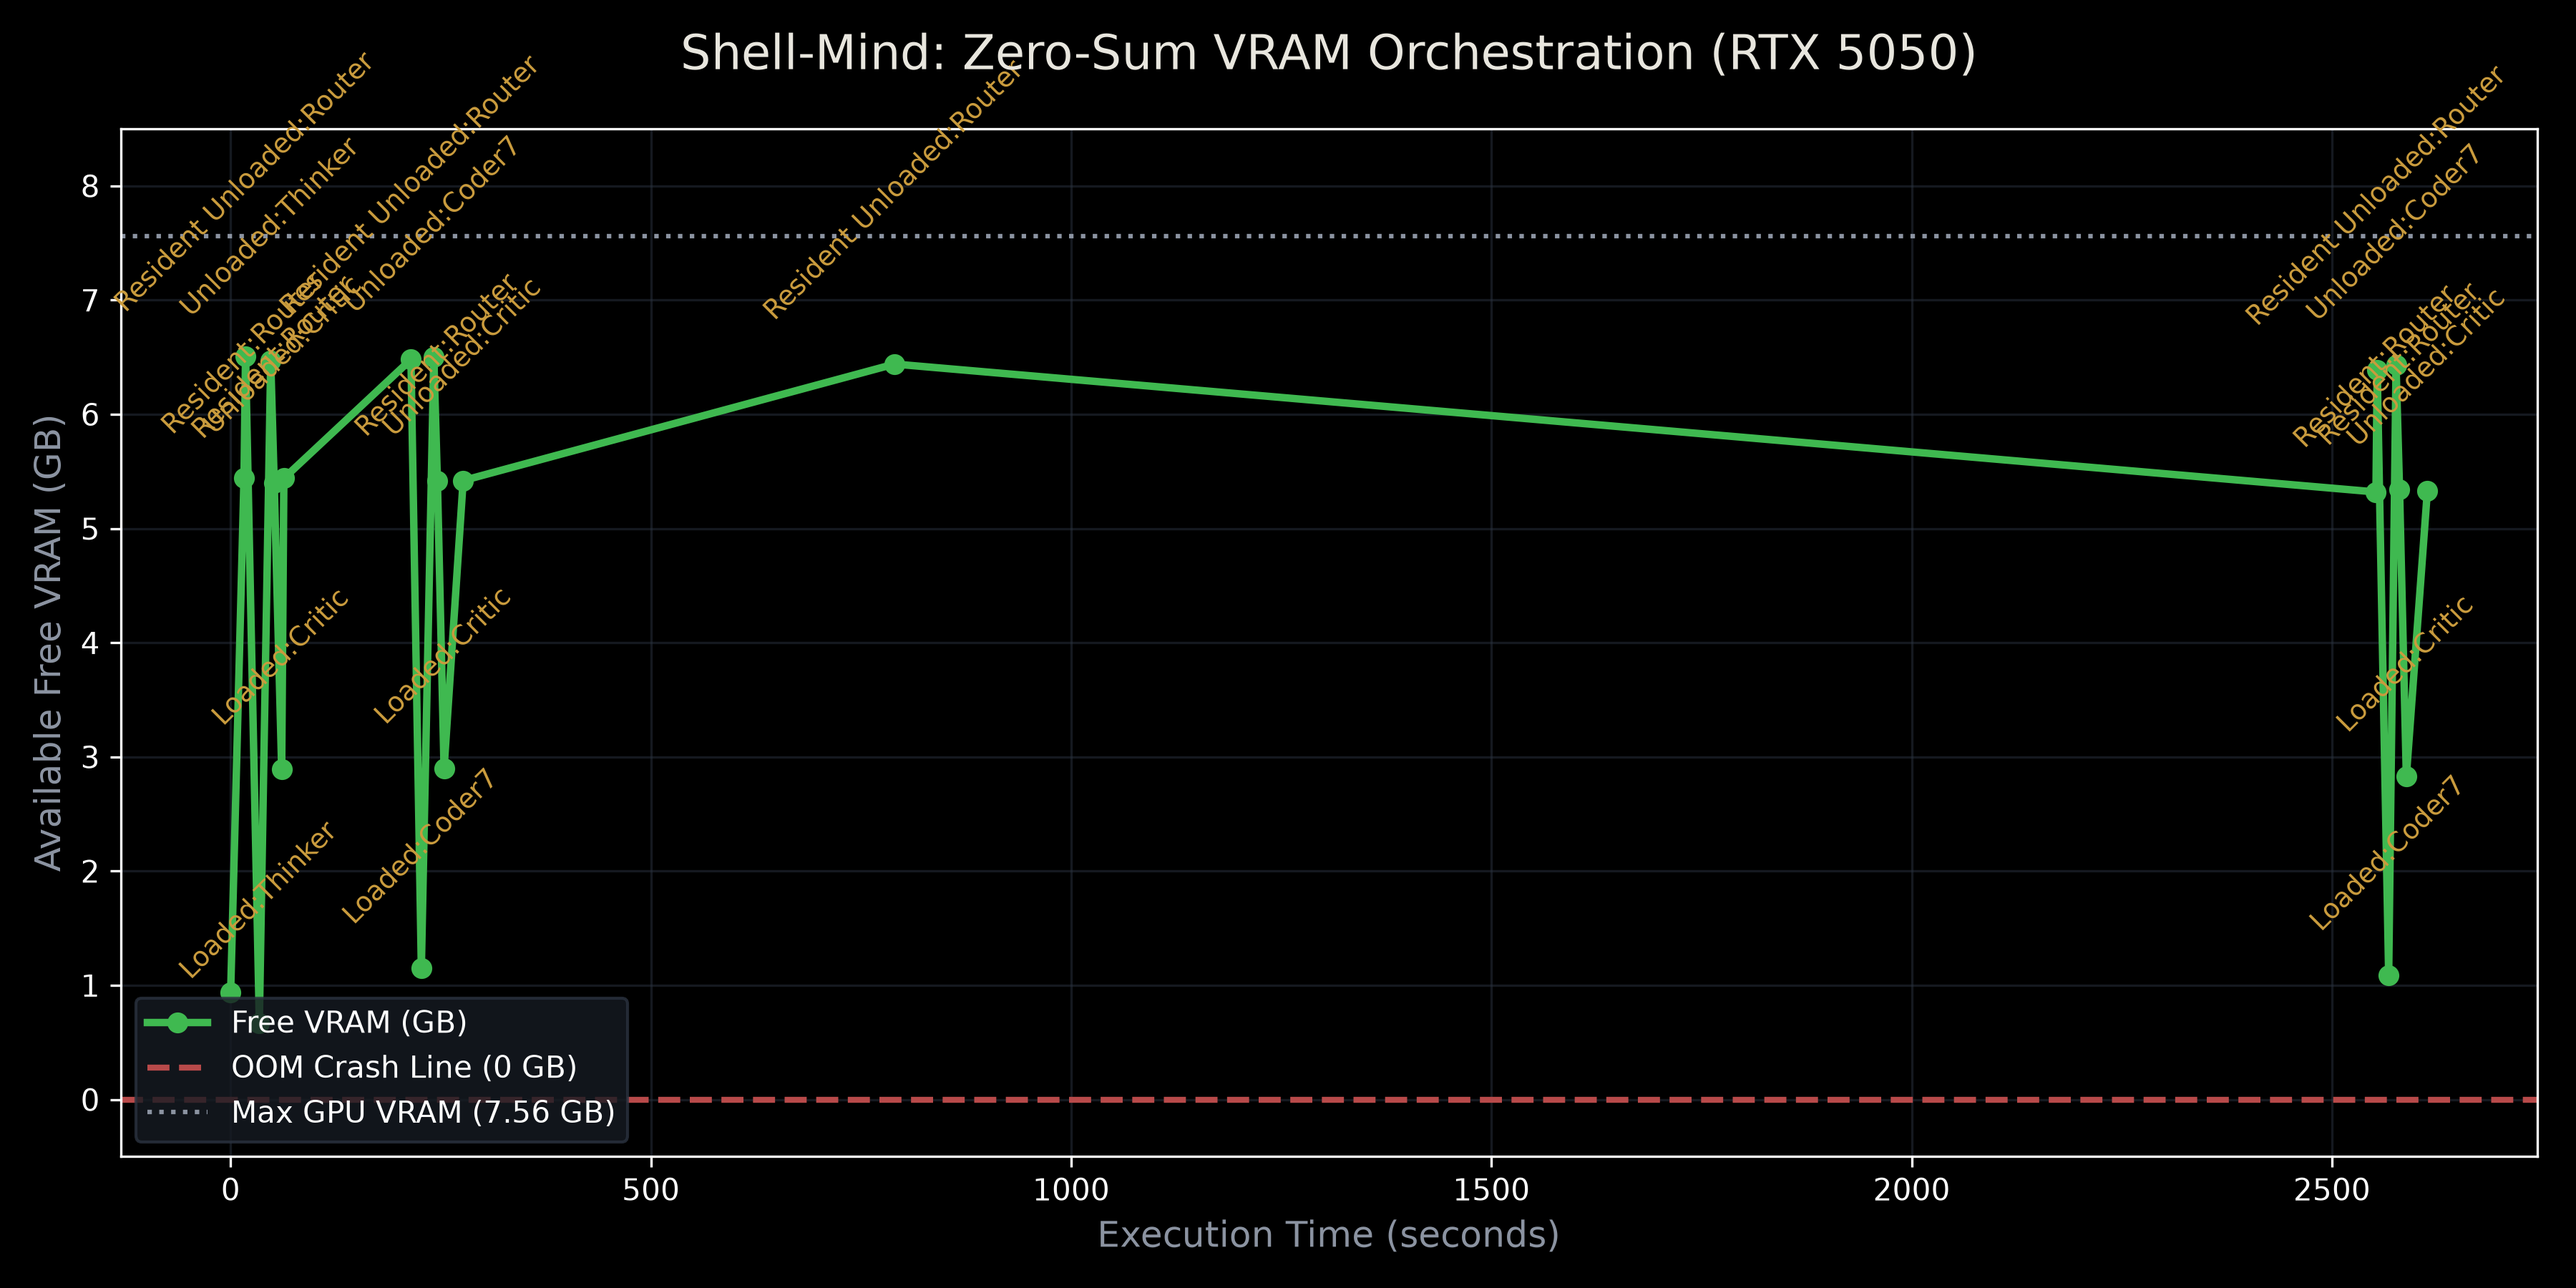
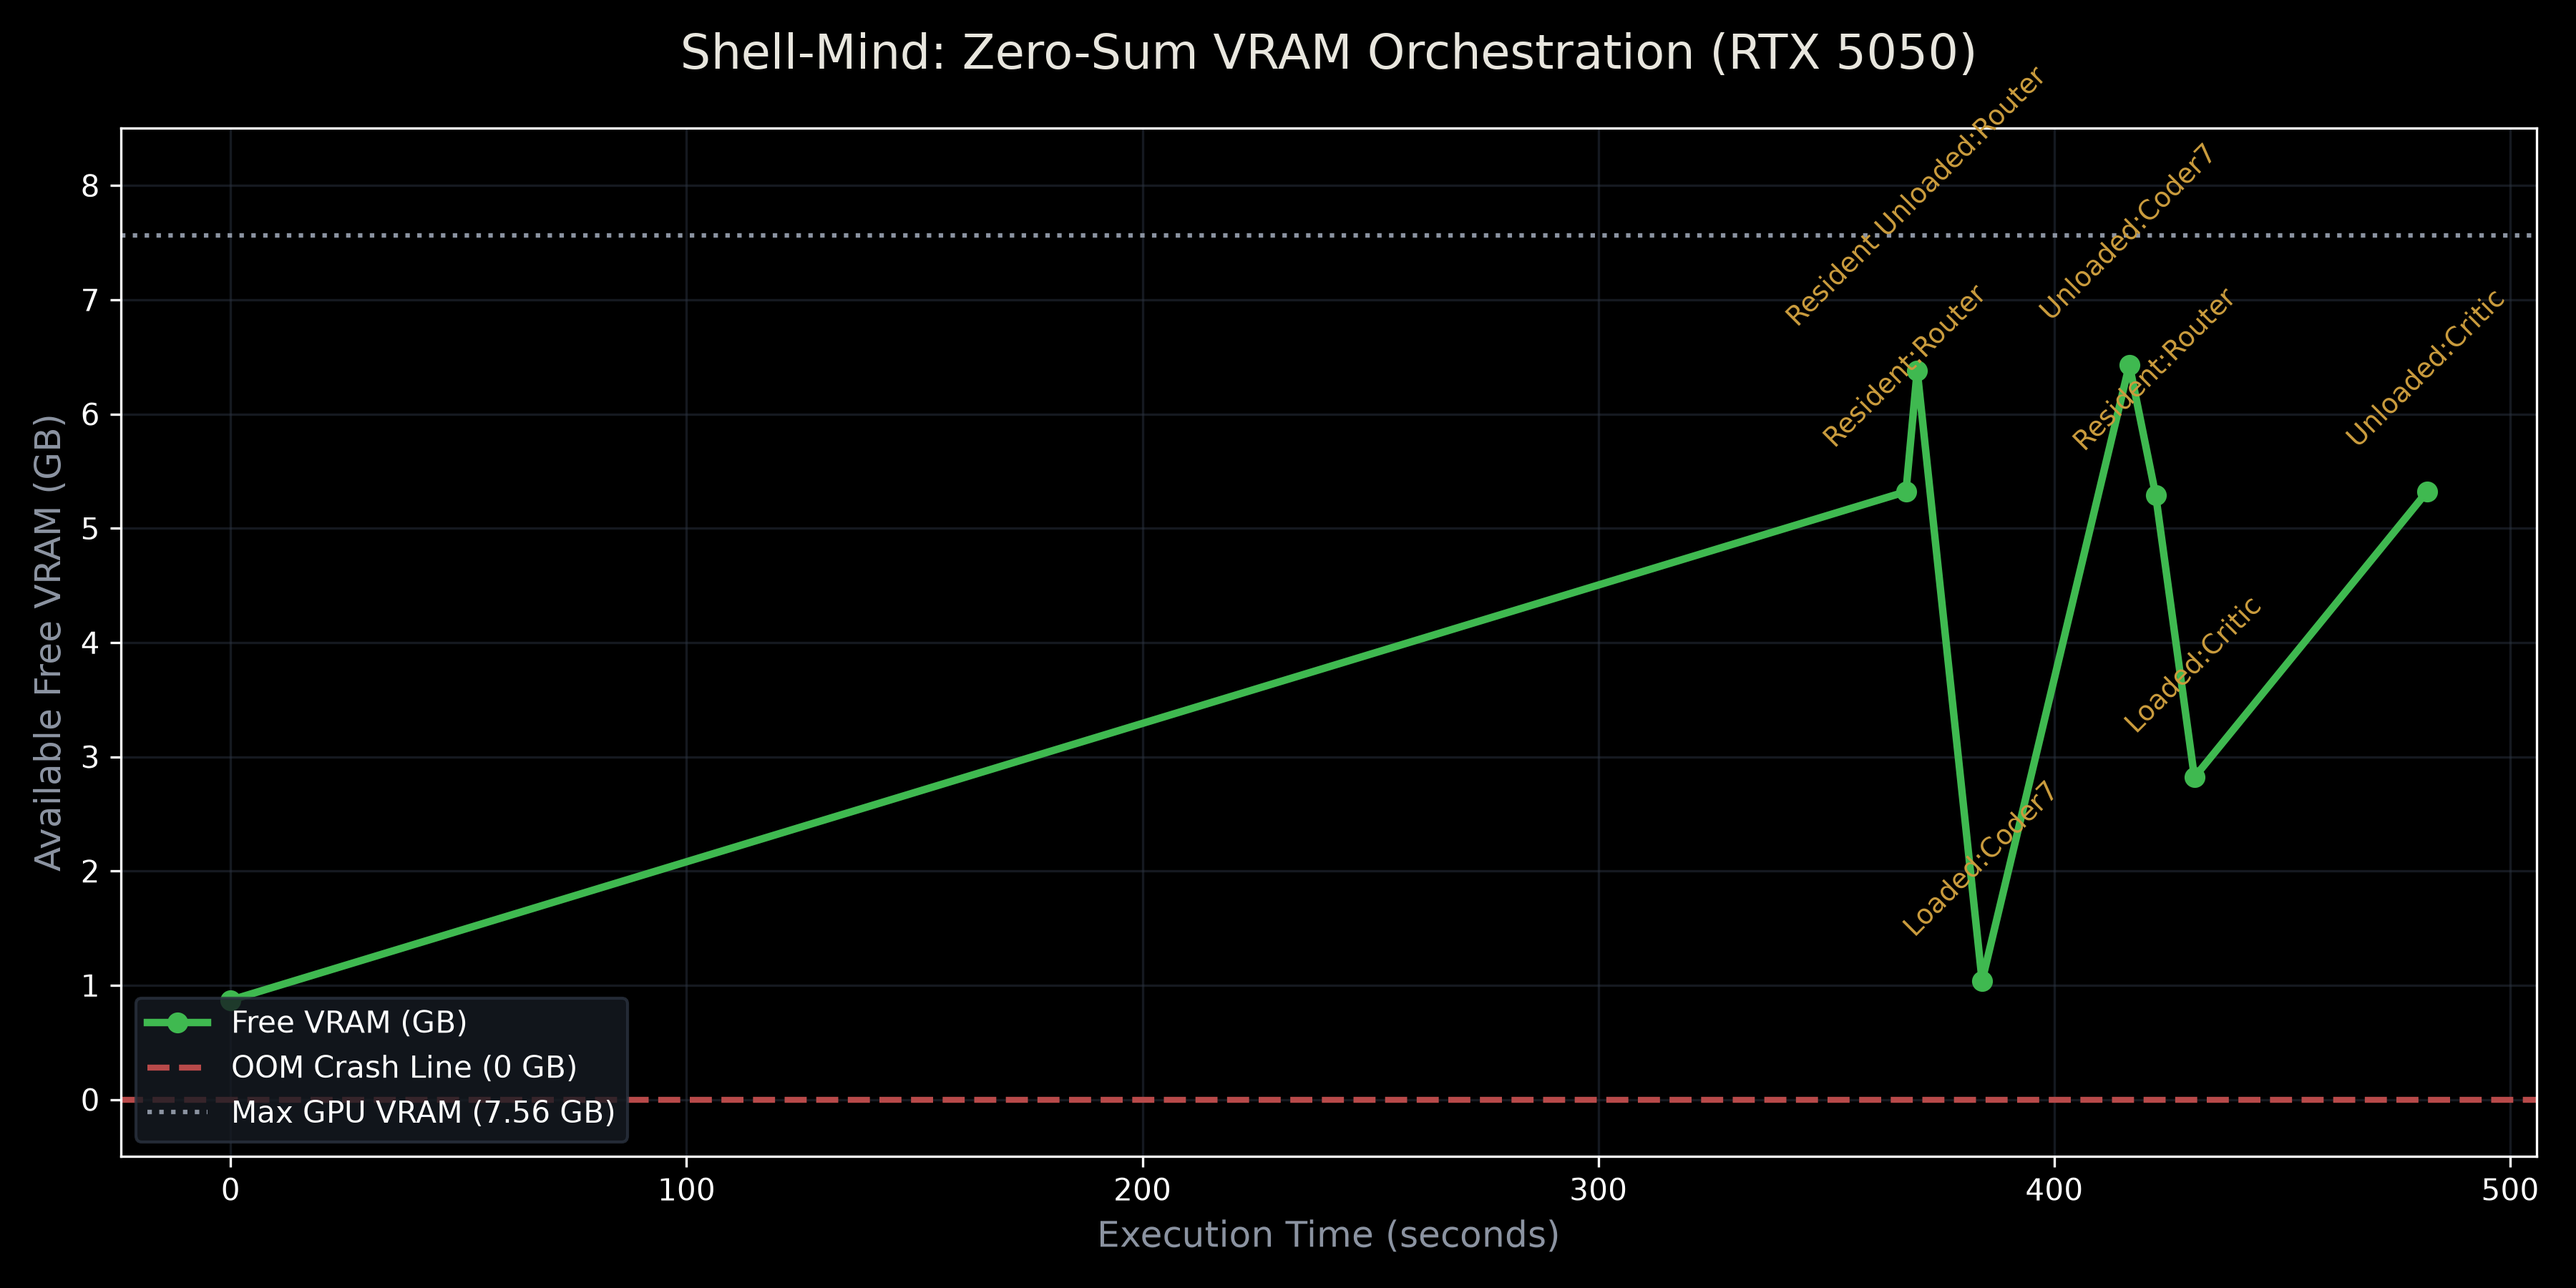
updated README.md and vram_chart

diff --git a/README.md b/README.md
@@ -1,45 +1,287 @@
-# ⚡ Shell-Mind: Local Multi-Agent AI Workstation
+# ⚡ Shell-Mind
 
-Shell-Mind is a fully local, multi-tier artificial intelligence workstation designed to run entirely on an 8GB VRAM constraint (NVIDIA RTX 5050). It features a custom hardware-aware orchestrator, a multi-agent pipeline, and a decoupled web interface.
+**Zero-Sum VRAM Orchestrated Multi-Agent Local AI Workstation**
 
-## 🚀 Core Architecture
+Shell-Mind is a fully local, multi-tier AI system designed to run complex software-engineering and multi-agent workflows on a strict **8 GB VRAM** budget (NVIDIA RTX 5050 / 4060 / 3060 class).
 
-Unlike standard single-shot wrappers, Shell-Mind implements a **Zero-Sum VRAM Orchestration** system. It aggressively manages GPU memory by dynamically loading and unloading specialized models based on the task, ensuring the system never exceeds hardware limits.
+Unlike single-shot chatbot wrappers, Shell-Mind treats GPU memory as a scarce resource. It dynamically loads and unloads specialized models so that only the models required for the current stage of a request occupy VRAM at any time.
 
-### The 3-Tier Compute Engine
-1. **CPU Lite (Tier 1):** Utilizes a 0.5B model for ultra-fast, lightweight tasks.
-2. **GPU Copilot (Tier 2):** Keeps a 7B Instruct model resident in memory for standard queries.
-3. **Agent Workstation (Tier 3):** Parks the resident model and unleashes a multi-agent workflow for complex reasoning.
+```
+User
+ │
+ ├── Web Interface (script.js)
+ └── Terminal Client (cli.py)
+          │
+          ▼
+   FastAPI Server (ai_core.py)
+          │
+    ┌─────┴─────┬──────────────┐
+    │           │              │
+ File Uploads  PDF Context   CPU / GPU Copilot
+    │           │              │
+    └─────┬─────┘              │
+          │                    │
+          ▼                    │
+   Agent Engine                │
+   (orchestrator.py)           │
+          │                    │
+   ┌──────┼──────┬──────┐      │
+   │      │      │      │      │
+ Router Vision Coder Critic    │
+   │      │      │      │      │
+   └──────┴──────┴──────┘      │
+          │                    │
+          ▼                    ▼
+   Model Zoo + Interaction History (SQLite)
+          │
+          ▼
+   Local Quantized Weights (4-bit NF4)
+```
 
-### The Multi-Agent Pipeline (Tier 3)
-When complex tasks are requested, the pipeline executes the following workflow:
-* **Router:** Analyzes the prompt and determines the required specialist (Code, Reasoning, or Vision).
-* **Workers (7B Coder / 8B Thinker / 8B Vision):** Loads the specific domain expert into VRAM, generates a draft, and unloads.
-* **Critic (4B):** Reviews the Worker's draft, catches logic or syntax errors, and polishes the final response before returning it to the user.
+---
 
-## ✨ Key Features
+## Core Idea — Zero-Sum VRAM Orchestration
 
-* **Graceful Degradation:** A custom error-handling system that catches PyTorch `OutOfMemory` (OOM) exceptions, purges corrupted VRAM, and safely falls back without crashing the server.
-* **Document Context Injection ("RAG Lite"):** Uses `PyPDF2` to extract text from uploaded PDFs and injects targeted context directly into the prompt stream, bypassing the need for heavy vector databases.
-* **Vision Capabilities:** Supports image uploads, processing them through a dedicated Vision-Language Model (VLM) for multimodal analysis.
-* **Persistent Audit Logging:** Integrates a local SQLite relational database (`shell_mind_history.db`) to record all prompts, execution modes, attached files, and AI responses for academic auditing.
-* **Vanilla Glassmorphism UI:** A lightweight, dependency-free HTML/CSS/JS frontend featuring CSS flexbox layouts, active thread history via `localStorage`, and animated neural network feedback.
+On an 8 GB card you cannot keep a 7–8 B model, a vision model, and a critic resident at the same time. Shell-Mind therefore enforces a **zero-sum** contract:
 
-## 🛠 Tech Stack
-* **Backend:** Python, FastAPI, PyTorch, Hugging Face `transformers`
-* **Models:** Qwen 2.5 architecture (0.5B, 1.5B, 4B Critic, 7B Coder, 8B Thinker, Vision)
-* **Optimization:** 4-bit NF4 Quantization (`bitsandbytes`)
-* **Frontend:** Vanilla HTML, CSS3, JavaScript
-* **Database:** SQLite3
+| Stage              | What lives in VRAM                          | What is parked / unloaded      |
+|--------------------|---------------------------------------------|-------------------------------|
+| Router planning    | 1.5 B router only                           | everything else               |
+| Vision             | 8 B VLM                                     | router parked                 |
+| Code / Reasoning   | 7 B coder or 8 B thinker                    | router parked                 |
+| Critic             | 4 B critic + 1.5 B router (they coexist)    | workers unloaded              |
+| GPU Copilot mode   | single 7 B instruct model                   | agent models unloaded         |
+| CPU Lite mode      | 0.5 B model on CPU                          | GPU free                      |
 
-## 🚦 Running the Application
+Every load is preceded by a live VRAM measurement. On any `OutOfMemory` or quantisation failure the system **purges**, falls back along a registered chain (e.g. 30 B MoE → 7 B), and continues without crashing the server.
 
-This architecture is decoupled. The backend and frontend must be started separately.
+---
 
-**1. Start the FastAPI Engine**
-Ensure your virtual environment is active, then launch the backend server:
+## Three-Tier Compute Engine
+
+1. **CPU Lite (Tier 1)**  
+   Qwen2.5-0.5B-Instruct on CPU. Instant responses when no GPU is available or for the lightest queries.
+
+2. **GPU Copilot (Tier 2)**  
+   A single 7 B instruct model (Qwen2.5-Coder-7B-Instruct, 4-bit NF4) stays resident. Standard chat, coding help, and document-context questions.
+
+3. **Agent Workstation (Tier 3)**  
+   Full multi-agent pipeline for hard requests:
+
+   ```
+   Router (1.5 B)
+        ↓
+   [optional Vision Specialist]
+        ↓
+   ONE specialist worker
+        • Code   → Qwen2.5-Coder-7B (or 30 B MoE when enabled)
+        • Reasoning → Qwen3-8B
+        • Vision-only → summary becomes the draft
+        ↓
+   Final Critic (4 B)
+        ↓
+   Answer returned to user
+   ```
+
+---
+
+## Key Features
+
+| Feature | Implementation |
+|---------|----------------|
+| **Zero-Sum VRAM** | Live `torch.cuda.mem_get_info()` before every load, forced unload + `gc` + `empty_cache` |
+| **Graceful degradation** | OOM / quant failures → purge → fallback chain → continue |
+| **RAG Lite** | PyPDF2 extracts first 3 pages (≤ 3 000 chars) and injects them into the prompt — no vector DB required |
+| **Vision** | Qwen3-VL-8B processes screenshots / images; output becomes compact context for the text workers |
+| **Audit logging** | Every prompt, mode, attached file and response written to `shell_mind_history.db` (SQLite) |
+| **Smoke tests** | `python -m workstation.smoke_test` verifies load → generate → unload → VRAM actually freed |
+| **VRAM timeline** | Pipeline dumps `vram_timeline.json`; `vram_chart.py` produces a portfolio-ready chart |
+| **Decoupled clients** | Vanilla HTML/CSS/JS glassmorphism UI + independent terminal CLI |
+| **Thread history** | Client-side `localStorage` threads; server-side immutable SQLite log for academic review |
+
+---
+
+## Model Registry
+
+All models are 4-bit NF4 (bitsandbytes) except vision towers (bf16).
+
+| Key       | Hugging Face ID                        | Role     | Approx. VRAM | Notes                          |
+|-----------|----------------------------------------|----------|--------------|--------------------------------|
+| `router`  | Qwen/Qwen2.5-1.5B-Instruct             | Router   | ~1.2 GB      | Always-resident planner        |
+| `coder7`  | Qwen/Qwen2.5-Coder-7B-Instruct         | Coder    | ~5.2 GB      | Production coder               |
+| `coder30` | Qwen/Qwen3-Coder-30B-A3B-Instruct      | Coder    | ~6 GB + RAM  | MoE, GPU+DDR5 split (optional) |
+| `thinker` | Qwen/Qwen3-8B                          | Reasoner | ~5.5 GB      | Step-by-step thinking          |
+| `critic`  | Qwen/Qwen3-4B-Instruct-2507            | Critic   | ~3.0 GB      | Coexists with router           |
+| `vision`  | Qwen/Qwen3-VL-8B-Instruct              | Vision   | ~6.0 GB      | Parks router while active      |
+
+---
+
+## Architecture (Component View)
+
+```
+primary_node/
+├── ai_core.py          # FastAPI entry point, tier switching, PDF lite, SQLite log
+└── ...
+
+workstation/
+├── model_zoo.py        # Loading layer, VRAM accounting, fallback chain
+├── router.py           # 1.5 B planner → strict JSON plan
+├── orchestrator.py     # State machine: plan → vision → worker → critic
+├── agents.py           # see / code / think / critique (wake → work → sleep)
+└── smoke_test.py       # Hardware acceptance tests
+
+frontend/
+├── index.html
+├── style.css           # Dark glassmorphism UI
+└── script.js           # Threads, attachments, neural loader
+
+cli/
+└── cli.py              # Thin terminal client (never loads models)
+
+scripts/
+└── vram_chart.py       # Portfolio chart from vram_timeline.json
+```
+
+---
+
+## Quick Start
+
+### Requirements
+
+- Python 3.10+
+- NVIDIA GPU with ≥ 8 GB VRAM (or CPU-only fallback)
+- CUDA 12+ / PyTorch with CUDA
+- ~100 GB free SSD (model weights)
+
+### 1. Clone & environment
+
+```bash
+git clone https://github.com/momoinuddin-ali/shell-mind.git
+cd shell-mind
+python -m venv .venv
+source .venv/bin/activate          # Windows: .venv\Scripts\activate
+pip install -r requirements.txt
+```
+
+### 2. Start the FastAPI engine
+
 ```bash
 uvicorn primary_node.ai_core:app --host 0.0.0.0 --port 8000
 ```
-**3. Database Auditing**
-Upon the first boot, the backend automatically generates an SQLite database file (`shell_mind_history.db`) in the root directory. You can open this file using any standard SQLite viewer (like DB Browser for SQLite) to audit the execution modes, prompts, file attachments, and AI outputs of every session.
+
+On first boot the server creates `shell_mind_history.db` and begins serving.
+
+### 3. Open the web UI
+
+Serve the frontend folder with any static server, or open `index.html` directly while the backend is running at `http://localhost:8000`.
+
+### 4. Or use the terminal client
+
+```bash
+python cli.py                                  # interactive
+python cli.py --mode agent "fix this traceback..."
+python cli.py --mode agent --image shot.png "what is wrong here?"
+```
+
+---
+
+## API Surface
+
+| Method | Endpoint          | Purpose                                      |
+|--------|-------------------|----------------------------------------------|
+| GET    | `/health`         | Status, current tier, free VRAM              |
+| POST   | `/chat`           | Main inference (`mode`: `cpu` / `gpu` / `agent`) |
+| POST   | `/upload`         | Store PDF for RAG-Lite context               |
+| POST   | `/upload_image`   | Store image for vision specialist            |
+
+Example request:
+
+```json
+{
+  "prompt": "Write a bash one-liner that finds the 10 largest files",
+  "mode": "agent",
+  "document_path": null,
+  "image_path": null
+}
+```
+
+---
+
+## Verification & Evaluation
+
+```bash
+# Fast smoke test (router + critic + coder7)
+python -m workstation.smoke_test
+
+# Full model set
+python -m workstation.smoke_test all
+
+# After any agent run, generate the VRAM chart
+python scripts/vram_chart.py
+```
+
+The smoke test asserts that each model can load, generate, unload, and actually free VRAM (within a 1.5 GB CUDA-context tolerance).
+
+---
+
+## Hardware & Software Stack
+
+**Minimum hardware**
+
+- CPU: multi-core x86_64 (i7 / Ryzen 7 class)
+- RAM: 16 GB DDR4/DDR5
+- GPU: 8 GB VRAM (RTX 3060 / 4060 / 5050)
+- Storage: 100 GB SSD (NVMe preferred)
+
+**Software**
+
+- Python 3.10+, FastAPI, Uvicorn
+- PyTorch (CUDA 12+), Hugging Face Transformers, bitsandbytes
+- SQLite3
+- Vanilla HTML5 / CSS3 / ES6 (no framework)
+
+---
+
+## Applications
+
+- **Local code copilot** — free, privacy-preserving, offline assistant for developers
+- **VRAM-constrained agent research** — demonstrates multi-agent workflows on consumer GPUs
+- **Document-aware Q&A** — PDF context injection without a heavy vector store
+- **Academic auditing** — immutable SQLite log of every interaction for project evaluation
+
+---
+
+## Future Work
+
+- [ ] GGUF / llama.cpp backend for true CPU offload of MoE experts
+- [ ] Full vector RAG (Chroma / FAISS) for larger document collections
+- [ ] Streaming responses via WebSockets or Server-Sent Events
+- [ ] Function-calling / web-search tool agents
+- [ ] Persistent research memory across sessions
+
+---
+
+## Team
+
+| Name                 | Role                          | Roll No. |
+|----------------------|-------------------------------|----------|
+| Mo Moinuddin Ali     | Lead / Systems & Orchestration| 63       |
+| Md Imtiyaz           | Backend & Model Zoo           | 61       |
+| Mohammad Ayaan       | Agents & Router               | 64       |
+| Himanshu Verma       | Frontend & CLI                | 23       |
+
+**Institution:** Shri Shankaracharya Technical Campus, Bhilai  
+**Department:** Computer Science & Engineering (AI & ML)  
+**Guide:** Dr. Jaspal Bagga, HOD (AIML)  
+**Session:** September – October 2026 (3rd Semester Mini-Project)
+
+---
+
+## License
+
+This project is released for academic and educational use.  
+See the repository for the exact license terms.
+
+---
+
+**Shell-Mind** — complex multi-agent AI, zero cloud, 8 GB VRAM.
